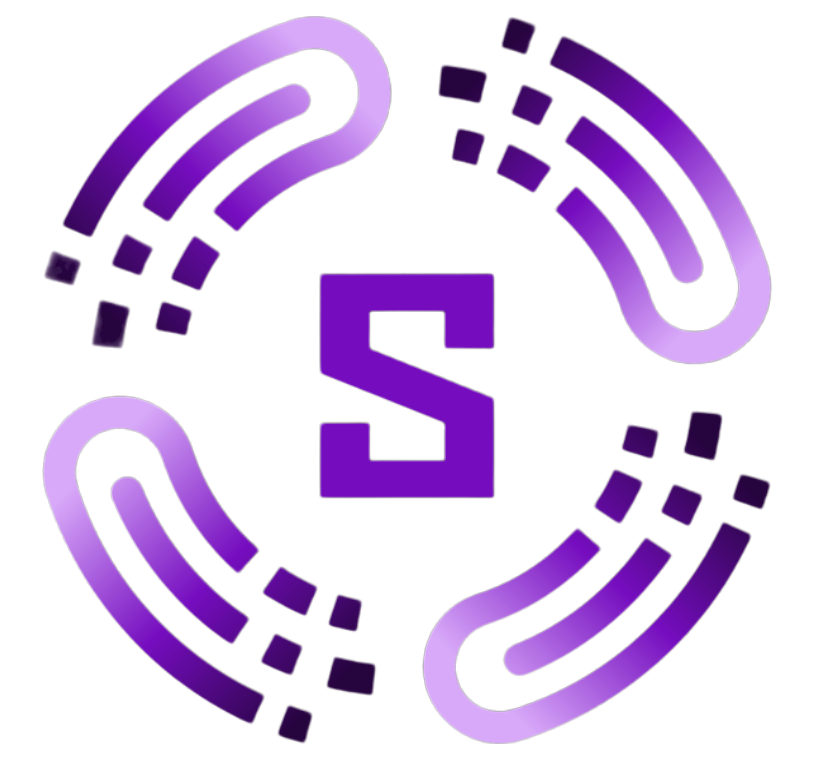
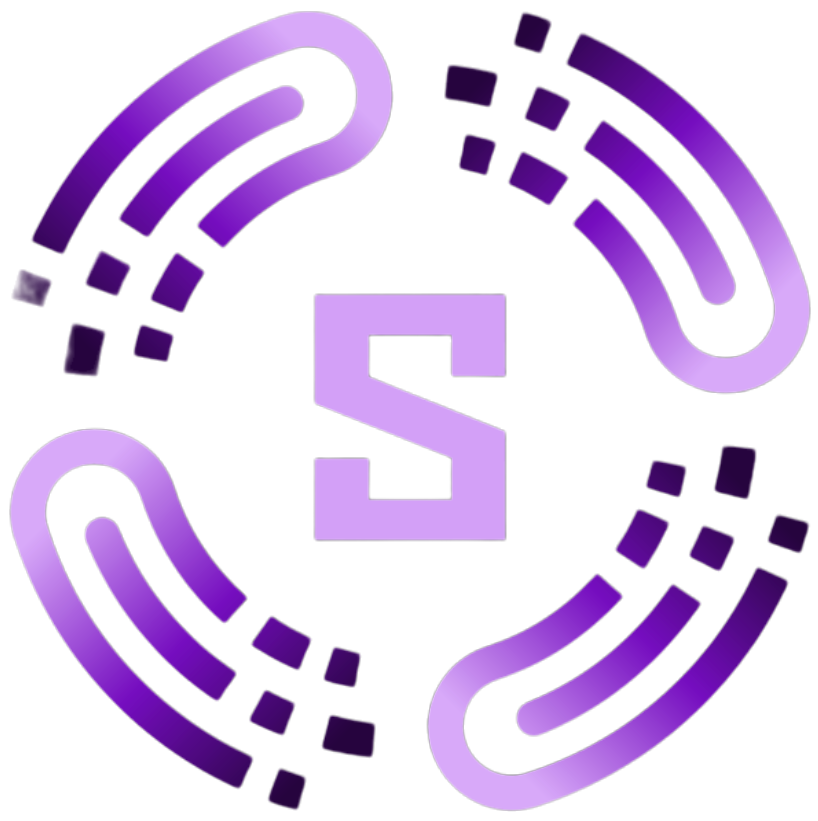
working on global themeing and configure for dark/light toggle theming

diff --git a/lib/main.dart b/lib/main.dart
@@ -7,6 +7,20 @@ import 'package:satellite/screens/chat_screen.dart';
 import 'package:satellite/screens/splash_screen.dart';
 import 'firebase_options.dart';
 
+ThemeData lightTheme = ThemeData().copyWith(
+  useMaterial3: true,
+  colorScheme:
+      ColorScheme.fromSeed(seedColor:Color.fromARGB(255, 216, 169, 249)),
+  // brightness: Brightness.light,
+);
+
+ThemeData darkTheme = ThemeData().copyWith(
+  useMaterial3: true,
+  colorScheme: 
+  ColorScheme.fromSeed(seedColor:const Color.fromARGB(255, 59, 29, 96)),
+  brightness: Brightness.dark,
+);
+
 void main() async {
   WidgetsFlutterBinding.ensureInitialized();
   await Firebase.initializeApp(
@@ -22,16 +36,12 @@ class MyApp extends StatelessWidget {
   Widget build(BuildContext context) {
     return MaterialApp(
       title: 'Satellite',
-      theme: ThemeData().copyWith(
-        useMaterial3: true,
-        colorScheme: ColorScheme.fromSeed(
-            seedColor:const Color.fromRGBO(125,18,255, 0)),
-            brightness: Brightness.dark
-      ),
+      theme: lightTheme,
+      darkTheme: darkTheme,
+      // themeMode: ThemeMode.light,
       home: StreamBuilder(
         stream: FirebaseAuth.instance.authStateChanges(),
         builder: (ctx, snapshot) {
-          
           // if firebase is still waiting or loading the token..
           if (snapshot.connectionState == ConnectionState.waiting) {
             return const SplashScreen();

diff --git a/lib/screens/auth.dart b/lib/screens/auth.dart
@@ -55,7 +55,7 @@ class _AuthScreenState extends State<AuthScreen> {
             .child('${userCredentials.user!.uid}.jpg');
         //referemce of firebase cloud storage - storing image to the firebase cloud
 
-       await storageRef.putFile(_selectedImage!);
+        await storageRef.putFile(_selectedImage!);
         final imageUrl = await storageRef.getDownloadURL();
 
         await FirebaseFirestore.instance
@@ -86,7 +86,7 @@ class _AuthScreenState extends State<AuthScreen> {
   @override
   Widget build(BuildContext context) {
     return Scaffold(
-      backgroundColor: Colors.black,
+      backgroundColor: Theme.of(context).colorScheme.primary,
       body: Center(
         child: SingleChildScrollView(
           child: Column(

diff --git a/lib/screens/chat_screen.dart b/lib/screens/chat_screen.dart
@@ -11,6 +11,7 @@ class ChatScreen extends StatelessWidget {
     return Scaffold(
       
       appBar: AppBar(
+        backgroundColor: Theme.of(context).colorScheme.primary,
         title: const Text('Satellite'),
         actions: [
           IconButton(
